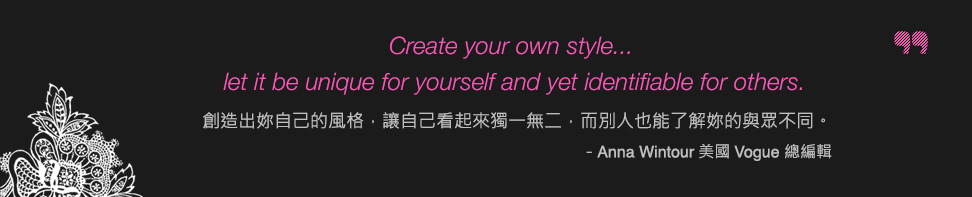
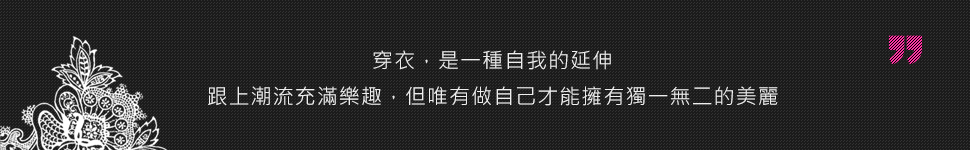
品牌精神頁修改

diff --git a/public/css/pageAbout.css b/public/css/pageAbout.css
@@ -2,7 +2,7 @@
 .title.about { width: 350px; }
 .title.news { width: 260px; }
 .title.community { width: 360px; }
-#aboutBanner { background-image: url(../images/page/img_aboutBanner.jpg); max-width: 972px;width:100%; padding-top: 21%; background-size: contain; background-repeat: no-repeat;filter: progid:DXImageTransform.Microsoft.AlphaImageLoader( src='../images/page/img_aboutBanner.jpg', sizingMethod='scale');-ms-filter: "progid:DXImageTransform.Microsoft.AlphaImageLoader( src='../images/page/img_aboutBanner.jpg', sizingMethod='scale')"; }
+#aboutBanner { background-image: url(../images/page/img_aboutBanner.jpg); max-width: 972px;width:100%; padding-top: 18%; background-size: contain; background-repeat: no-repeat;filter: progid:DXImageTransform.Microsoft.AlphaImageLoader( src='../images/page/img_aboutBanner.jpg', sizingMethod='scale');-ms-filter: "progid:DXImageTransform.Microsoft.AlphaImageLoader( src='../images/page/img_aboutBanner.jpg', sizingMethod='scale')"; }
 .articles-container.col-md-9 { margin-left: auto; margin-right: auto; float: none; }
 .readMore { font-weight: bold; display: inline-block; padding-left: 20px; }
 .article h2 { font: 1.8em Helvetica, Microsoft JhengHei, "微軟正黑體"!important }
@@ -11,7 +11,9 @@
 .article .article-meta-date span { font-size: 1.2em; }
 .article .article-meta-date { font: 1.0em Helvetica, Microsoft JhengHei; font-weight: 700; letter-spacing: 1px; }
 #wrapper { position: relative }
-
+.about h2 { font:500 1.2em Helvetica, "Microsoft JhengHei", "微軟正黑體"; color: #c9006e; padding-top:20px;}
+.about p { font-size: .95em;  }
+.about p span { font-size: .8em;  }
  @media (min-width: 1200px) {
 .article .article-meta-date { width: 85px; }
 }
@@ -32,7 +34,7 @@
 #lookbook .title span { padding: 0 0 0 2%!important; }
 #lookbook h2.title { background: none; }
 .title-bg:after { background: transparent; }
-#aboutBanner { background-image: url(../images/page/img_aboutBanner2.jpg); width: 100%; padding-top: 356px;background-color: #1b1b1b; background-size: auto; background-position: center top;}
+#aboutBanner { background-image: url(../images/page/img_aboutBanner2.jpg); width: 100%; padding-top: 260px;background-color: #1b1b1b; background-size: auto; background-position: center top;}
 .col-md-10 { padding: 0px; }
 .col-md-10 p { padding: 0 10px; }
 .article .article-meta-date { font-size: 0.8em; width: 50px; height: 45px; padding: 11px 0; line-height: 1em; font-weight: 300; margin-left: 10px; }
@@ -44,4 +46,5 @@
 .article-content-container { margin-left: -40px; font-size: 0.9em }
 .readMore { float: right; margin-top: 0; }
 .carousel-controls { right: 15px; }
+.about h2 { padding:20px 10px 0 10px;}
 }
